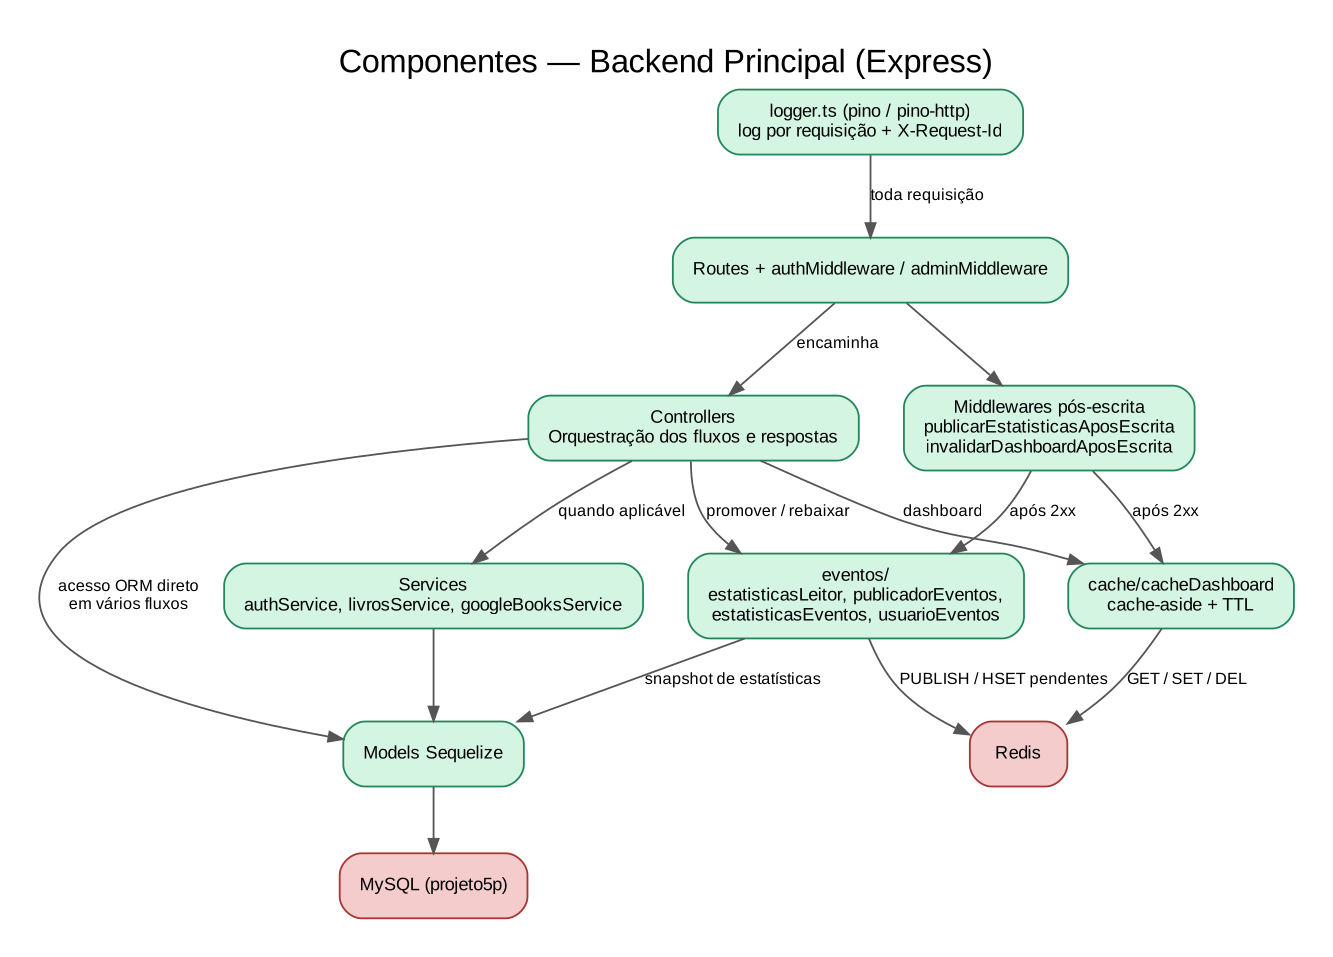
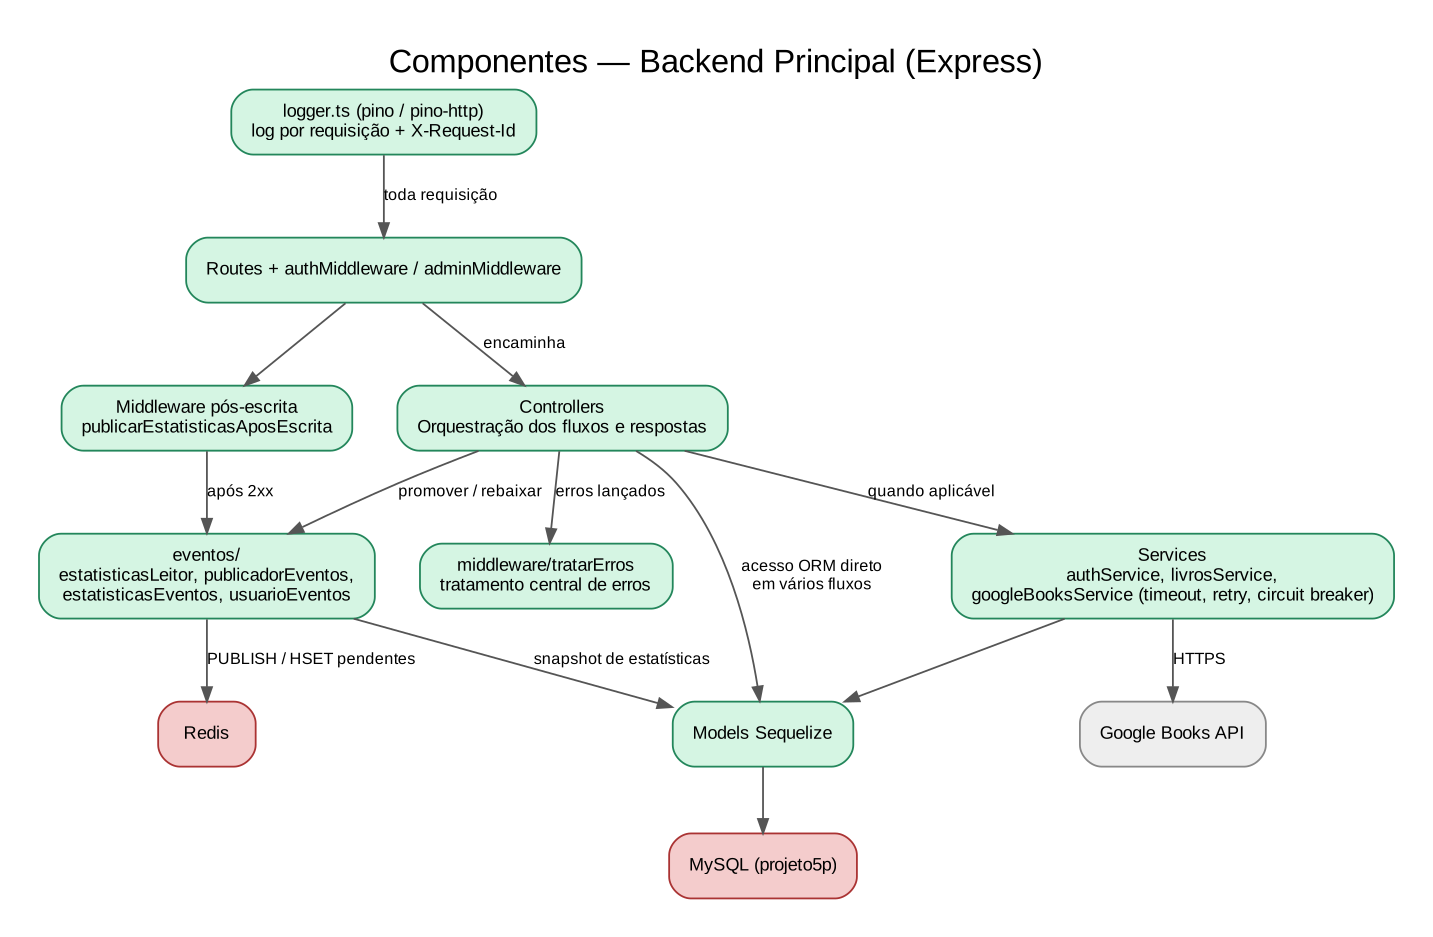
docs: organização final
Refs: GDL-80

diff --git a/docs/adr/ADR-003-redis-cache-e-mensageria.md b/docs/adr/ADR-003-redis-cache-e-mensageria.md
@@ -4,20 +4,20 @@
 - **Data:** 03/11/2026 — Jira GDL-23
 
 ## Contexto
-O catálogo de conquistas e a dashboard recebem consultas repetidas. A separação da Gamificação exige comunicar mudanças de leitura ao novo serviço sem chamada síncrona entre eles.
+O catálogo de conquistas recebe consultas repetidas. A separação da Gamificação exige comunicar mudanças de leitura ao novo serviço sem chamada síncrona entre eles.
 
 ## Decisão
 Usar um único Redis 7 para **cache-aside com TTL** e para **mensageria Pub/Sub**. Redis não é fonte da verdade: tudo no cache pode ser reconstruído do MySQL.
 
 ## Cache
-| | Catálogo de conquistas (NestJS) | Dashboard (Express) |
-|---|---|---|
-| Issue | GDL-10, GDL-11 | GDL-12 |
-| Chave | por usuário + versão do catálogo | `dashboard:usuario:<id>` |
-| TTL | `CACHE_TTL_SEGUNDOS` (padrão 300 s) | `CACHE_DASHBOARD_TTL` (padrão 300 s) |
-| Invalidação | admin altera o catálogo → todos; leitor ganha conquista ou estatísticas mudam → só ele | qualquer escrita 2xx do leitor em livros, leituras, anotações, sessões e metas |
-| Redis fora | consulta o banco, `X-Cache: SEM_CACHE`; operações limitadas a 300 ms | consulta o banco, `X-Cache: MISS`; log avisa uma vez |
-| Testes | `cache-catalogo.service.spec.ts` | `cacheDashboard.test.ts` |
+| | Catálogo de conquistas (NestJS) |
+|---|---|
+| Issue | GDL-10, GDL-11 |
+| Chave | por usuário + versão do catálogo |
+| TTL | `CACHE_TTL_SEGUNDOS` (padrão 300 s) |
+| Invalidação | admin altera o catálogo → todos; leitor ganha conquista ou estatísticas mudam → só ele |
+| Redis fora | consulta o banco, `X-Cache: SEM_CACHE`; operações limitadas a 300 ms |
+| Testes | `cache-catalogo.service.spec.ts` |
 
 Compose limita o Redis a 128 MB com `allkeys-lru`; sem volume persistente nem senha, só na rede interna.
 
@@ -25,6 +25,6 @@ Compose limita o Redis a 128 MB com `allkeys-lru`; sem volume persistente nem se
 Implementada conforme o [ADR-004](ADR-004-eventos-entre-servicos.md): canais `estatisticas.atualizadas` e `usuario.permissao_alterada`, publicados pelo Express (`redis`) e consumidos pelo NestJS (`@nestjs/microservices`, transporte Redis em app híbrido).
 
 ## Consequências
-- Cache pode ficar desatualizado até o TTL para dados que outra pessoa altera (ex.: totais gerais da dashboard).
+- O cache pode ficar desatualizado por até um TTL.
 - Pub/Sub entrega no máximo uma vez e não guarda mensagem para quem está desconectado; o ADR-004 descreve como isso foi compensado.
 - Um único Redis é ponto único de falha para cache e mensageria; os dois serviços continuam respondendo sem ele (sem cache e sem eventos).

diff --git a/docs/gestao/product-backlog.md b/docs/gestao/product-backlog.md
@@ -43,12 +43,12 @@ Com a mesma pessoa como PO, Scrum Master e desenvolvedora, há menos separação
 | Sprint 4 — Nest e Cache | 27/10 – 02/11 | Conquistas servidas pelo NestJS (banco próprio, JWT e módulo) com cache-aside e invalidação | GDL-10, 11, 66, 67, 68, 19, 20, 21–25 |
 | Sprint 5 — Eventos | 03/11 – 09/11 | Monólito publica eventos e o serviço consome; serviço no Compose e no Nginx; revogação de admin; CI/CD; modelo de domínio e OpenAPI | GDL-16, 17, 18, 27–30, 39, 40, 41, 57, 58, 60, 70, 71, 73, 74, 79 |
 | Sprint 6 — Migração | 09/11 – 20/11 | Código antigo removido; sistema resiliente com o serviço fora; teste do fluxo; qualidade, SLO, observabilidade | GDL-26, 31, 32, 33, 51, 54, 69, 72, 75, 76, 77 |
-| Sprint 7 — Finalização | 20/11 – 23/11 | Logger, tratamento central de erros, cache da dashboard, apresentação | GDL-34, GDL-12, GDL-35, GDL-80, GDL-32 (implementação) e GDL-42 |
+| Sprint 7 — Finalização | 20/11 – 23/11 | Logger, tratamento central de erros, apresentação | GDL-34, GDL-12, GDL-35, GDL-80, GDL-32 (implementação) e GDL-42 |
 
 Na Sprint 6 o time não fechou GDL-34, GDL-35, GDL-12 e GDL-42; eles foram levados para a Sprint 7 (replanejamento registrado no Jira). Na revisão final, o time encontrou o GDL-32 (Sprint 6) marcado como Feito sem código e implementou a resiliência na Sprint 7 (PR #51) — exemplo de inspeção e adaptação.
 
 ## Concluído na Sprint 7
-GDL-34 (logger, PR #47), GDL-35 (tratamento de erros, PR #50), GDL-80 (documentação, PR #49), GDL-12 (cache da dashboard, PR #48), GDL-32 (resiliência do Google Books, PR #51) e GDL-42 (apresentação final).
+GDL-34 (logger, PR #47), GDL-35 (tratamento de erros, PR #50), GDL-80 (documentação, PR #49), GDL-12 (PR #48), GDL-32 (resiliência do Google Books, PR #51) e GDL-42 (apresentação final).
 
 ## Cancelado
 GDL-61 (ConquistaService no Express): fechado como Feito com o título "[Cancelado]", porque foi substituído pela extração da Gamificação para o NestJS.

diff --git a/docs/arquitetura/quality-scenarios.md b/docs/arquitetura/quality-scenarios.md
@@ -5,9 +5,9 @@ Os cenários diferenciam comportamento implementado (com evidência) de metas pr
 | ID | Atributo | Estímulo → resposta esperada | Evidência / situação |
 |---|---|---|---|
 | QS-01 | Desempenho | Requisição HTTP responde dentro do orçamento | Log por requisição com duração (pino) e Nginx com `$request_time`; sem série de medições sob carga |
-| QS-02 | Desempenho | Consultas repetidas ao catálogo de conquistas e à dashboard usam cache | **Implementado:** cache-aside com TTL e `X-Cache: HIT/MISS` (catálogo: GDL-10/11; dashboard: GDL-12) |
+| QS-02 | Desempenho | Consultas repetidas ao catálogo de conquistas usam cache | **Implementado:** cache-aside com TTL e `X-Cache: HIT/MISS` (GDL-10/11) |
 | QS-03 | Disponibilidade | Conquistas Service fora do ar | **Implementado:** Nginx responde 503 JSON só para `/api/conquistas`; Express continua; eventos ficam no hash de pendentes e são processados quando o serviço volta (GDL-76) |
-| QS-04 | Resiliência | Redis indisponível | **Implementado:** catálogo e dashboard vão ao banco; publicação falha sem quebrar a requisição; Nest reassina sozinho; log avisa queda e volta uma vez |
+| QS-04 | Resiliência | Redis indisponível | **Implementado:** catálogo vai ao banco; publicação falha sem quebrar a requisição; Nest reassina sozinho; log avisa queda e volta uma vez |
 | QS-05 | Consistência | Evento repetido ou fora de ordem | **Implementado:** upsert condicional por `gerado_em` e PK composta na concessão; testes em `eventos.banco-spec.ts` |
 | QS-06 | Segurança | Admin rebaixado tenta usar token antigo | **Implementado:** evento `usuario.permissao_alterada` → 401; com Redis fora, rotas de admin respondem 503 (GDL-79) |
 | QS-07 | Recuperação | Container cai | `restart: always`; healthcheck no MySQL, Redis e conquistas-service (`/health`) |

diff --git a/README.md b/README.md
@@ -219,27 +219,3 @@ serviço e, quando vem de uma requisição, o id da requisição e o usuário lo
 |---|---|---|
 | `LOG_NIVEL` | `debug`, `info`, `warn`, `error` | `info` (nos testes, `silent`) |
 | `LOG_FORMATO` | `texto` (uma linha legível) ou `json` (um objeto por linha, para ferramentas de log) | `texto` |
-## 12) Cache da dashboard (GDL-12)
-
-`GET /api/dashboard` usa **cache-aside** no Redis, com uma chave por leitor (`dashboard:usuario:<id>`):
-
-1. procura a chave no Redis; se achar (**HIT**), devolve direto, sem consultar o MySQL;
-2. se não achar (**MISS**), monta a dashboard no banco, guarda no Redis com TTL e devolve.
-
-- **TTL**: `CACHE_DASHBOARD_TTL` em segundos (padrão `300`, 5 minutos).
-- **Invalidação**: qualquer escrita que deu certo em `/api/livros`, `/api/leituras` (ex.: iniciar uma leitura),
-  `/api/anotacoes`, `/api/sessoes` ou `/api/metas` apaga a chave do leitor; o próximo GET já vem do banco.
-- **Redis fora do ar**: a dashboard continua respondendo, só que sempre do banco. O log avisa uma vez quando o
-  Redis cai e outra quando volta.
-- A resposta traz o cabeçalho `X-Cache: HIT` ou `X-Cache: MISS`, e o log mostra cada caso:
-
-```
-[18:55:12.595] INFO: [backend:cache] MISS dashboard usuario=1
-[18:55:12.595] INFO: [backend] GET /api/dashboard 200 18ms {"reqId":"dcd8fdfe-...","usuario":1}
-[18:55:12.613] INFO: [backend:cache] HIT dashboard usuario=1
-[18:55:12.613] INFO: [backend] GET /api/dashboard 200 1ms {"reqId":"4ae1d85e-...","usuario":1}
-[18:55:12.669] INFO: [backend:cache] dashboard invalidada usuario=1 (POST /api/leituras/iniciar)
-```
-
-Os números totais de usuários e de livros do sistema podem ficar até um TTL atrasados quando *outra* pessoa
-cadastra algo, porque só a escrita do próprio leitor apaga a dashboard dele.

diff --git a/docs/README.md b/docs/README.md
@@ -15,11 +15,11 @@
 ## Estado do sistema
 | Componente | Estado |
 |---|---|
-| Backend Principal | Express 5, TypeScript, Sequelize, MySQL; catálogo, leituras, sessões, metas, anotações, lista de desejos, perfil, dashboard (com cache), autenticação e administração; publica eventos no Redis; Google Books com timeout, retry e circuit breaker |
+| Backend Principal | Express 5, TypeScript, Sequelize, MySQL; catálogo, leituras, sessões, metas, anotações, lista de desejos, perfil, autenticação e administração; publica eventos no Redis; Google Books com timeout, retry e circuit breaker |
 | Conquistas Service | NestJS, TypeORM; rotas do leitor (`/api/conquistas`, `/catalogo`, `/novas`) e do admin, DTOs, regras estruturadas, JWT com revogação, cache, consumo de eventos, migrações |
 | Nginx | Único ponto de entrada (HTTPS); `/api/conquistas` → NestJS, demais `/api/` → Express, `/` → frontend; 503 JSON se o NestJS cair |
 | MySQL | MySQL 8, schemas `projeto5p` e `gamificacao`, usuário separado para a gamificação |
-| Redis | Cache (catálogo e dashboard), Pub/Sub (`estatisticas.atualizadas`, `usuario.permissao_alterada`), eventos pendentes, revogação de tokens |
+| Redis | Cache (catálogo de conquistas), Pub/Sub (`estatisticas.atualizadas`, `usuario.permissao_alterada`), eventos pendentes, revogação de tokens |
 | Docker Compose | MySQL, Redis, backend, conquistas-service, frontend e Nginx, com healthchecks |
 | CI/CD | GitHub Actions: build e testes dos três projetos (NestJS com MySQL e Redis reais), build das imagens, publicação no GHCR por tag |
 | Logs e erros | pino nos dois serviços, uma linha por requisição, `X-Request-Id`; tratamento central de erros no Express (GDL-35) e filtro global no NestJS, com resposta `{ erro, statusCode }` |

diff --git a/docs/diagramas/c4-componentes-backend.md b/docs/diagramas/c4-componentes-backend.md
@@ -4,11 +4,10 @@
 flowchart TB
     logger["<b>logger.ts</b><br/>pino / pino-http<br/>log por requisição + X-Request-Id"]
     routes["<b>Routes</b><br/>authMiddleware / adminMiddleware"]
-    mw["<b>Middlewares pós-escrita</b><br/>publicarEstatisticasAposEscrita<br/>invalidarDashboardAposEscrita"]
+    mw["<b>Middlewares pós-escrita</b><br/>publicarEstatisticasAposEscrita"]
     controllers["<b>Controllers</b><br/>Orquestração dos fluxos e respostas"]
     services["<b>Services</b><br/>authService, livrosService,<br/>googleBooksService"]
     eventos["<b>eventos/</b><br/>estatisticasLeitor, publicadorEventos,<br/>estatisticasEventos, usuarioEventos"]
-    cache["<b>cache/cacheDashboard</b><br/>cache-aside + TTL"]
     models["<b>Models Sequelize</b>"]
     mysql[("MySQL · projeto5p")]
     redis[("Redis")]
@@ -18,18 +17,15 @@ flowchart TB
     routes -- encaminha --> controllers
     controllers -- "quando aplicável" --> services
     controllers -- "acesso ORM direto<br/>em vários fluxos" --> models
-    controllers -- dashboard --> cache
     controllers -- "promover / rebaixar" --> eventos
     mw -- "após 2xx" --> eventos
-    mw -- "após 2xx" --> cache
     services --> models
     eventos -- "snapshot de estatísticas" --> models
     models --> mysql
     eventos -- "PUBLISH / HSET pendentes" --> redis
-    cache -- "GET / SET / DEL" --> redis
 
     classDef comp fill:#d5f5e3,stroke:#23865b,color:#000
     classDef dados fill:#f4cccc,stroke:#aa3333,color:#000
-    class logger,routes,mw,controllers,services,eventos,cache,models comp
+    class logger,routes,mw,controllers,services,eventos,models comp
     class mysql,redis dados
 ```

diff --git a/docs/diagramas/c4-containers.md b/docs/diagramas/c4-containers.md
@@ -10,7 +10,7 @@ flowchart TB
     subgraph compose["Docker Compose — rede interna"]
         nginx["<b>Nginx 1.27</b><br/>Proxy reverso + HTTPS<br/>(único ponto de entrada externo)"]
         web["<b>Frontend Web</b><br/>React + TypeScript + Vite"]
-        express["<b>Backend Principal</b><br/>Express 5 + Sequelize<br/>Identidade, catálogo, leituras, sessões,<br/>anotações, metas, dashboard, admin"]
+        express["<b>Backend Principal</b><br/>Express 5 + Sequelize<br/>Identidade, catálogo, leituras, sessões,<br/>anotações, metas, admin"]
         nest["<b>Conquistas Service</b><br/>NestJS + TypeORM<br/>Catálogo, progresso, concessão<br/>e administração de conquistas"]
         redis[("<b>Redis 7</b><br/>Cache · Pub/Sub<br/>Eventos pendentes · Revogação de tokens")]
         mysql[("<b>MySQL 8</b><br/>schemas projeto5p + gamificacao")]
@@ -25,7 +25,7 @@ flowchart TB
     nginx -- "/api/conquistas*<br/>(503 JSON se fora do ar)" --> nest
     express -- "Sequelize · projeto5p" --> mysql
     nest -- "TypeORM · gamificacao" --> mysql
-    express -- "PUBLISH estatisticas.atualizadas<br/>PUBLISH usuario.permissao_alterada<br/>cache da dashboard" --> redis
+    express -- "PUBLISH estatisticas.atualizadas<br/>PUBLISH usuario.permissao_alterada" --> redis
     redis -- "SUBSCRIBE (Pub/Sub)" --> nest
     nest -- "cache do catálogo<br/>revogação de tokens" --> redis
     express -- "HTTPS/JSON<br/>(timeout, retry, circuit breaker)" --> google

diff --git a/docs/arquitetura/coesao-acoplamento.md b/docs/arquitetura/coesao-acoplamento.md
@@ -5,9 +5,9 @@ Esta análise aplica as aulas ao código atual. Não afirma que o sistema implem
 ## Evidências positivas
 - NestJS separa módulos, controllers, services, DTOs, entities, cache, auth, eventos e banco.
 - Regras de critério são funções puras com testes.
-- `CacheCatalogoService` (Nest) e `cacheDashboard.ts` (Express) encapsulam o acesso ao cache.
+- `CacheCatalogoService` (Nest) encapsula o acesso ao cache.
 - **Baixo acoplamento entre serviços:** Express e NestJS não se chamam por HTTP; falam só pelo contrato do evento. Um pode ficar fora do ar sem derrubar o outro.
-- Publicação e invalidação ficam em middlewares pós-escrita, sem alterar cada controller.
+- A publicação de eventos fica em um middleware pós-escrita, sem alterar cada controller.
 - `googleBooksService.ts` centraliza a chamada à API externa.
 
 ## Acoplamentos identificados
@@ -25,6 +25,6 @@ Esta análise aplica as aulas ao código atual. Não afirma que o sistema implem
 ## Padrões aplicados
 - MVC/Controllers + ORM no Express.
 - Módulos, providers e injeção de dependência no NestJS.
-- Cache-aside (catálogo de conquistas e dashboard).
+- Cache-aside (catálogo de conquistas).
 - Publish/Subscribe com Redis e snapshot cumulativo como evento.
 - Strangler fig: a Gamificação saiu do monólito em etapas, até a remoção do código antigo (GDL-75).

diff --git a/docs/gestao/versionamento.md b/docs/gestao/versionamento.md
@@ -7,7 +7,7 @@ O `CHANGELOG.md` segue Keep a Changelog e Versionamento Semântico. Cada versão
 | **1.0.0** | 19/10/2026 | Primeira versão estável: o MVP (histórias GDL-43 a GDL-50) |
 | **1.1.0** | 27/10/2026 | Serviço NestJS iniciado, schema `gamificacao`, critérios estruturados, Redis no Compose, testes e correções |
 | **1.2.0** | 09/11/2026 | JWT e módulo de conquistas no NestJS, cache do catálogo, Compose e Nginx com o serviço, CI/CD, eventos Redis Pub/Sub, revogação de admin, app com conquistas estruturadas |
-| **1.3.0** (próxima) | fim da Sprint 7 | `nome_genero`, remoção das conquistas do Express, `/api/conquistas/novas`, resiliência com o serviço fora, teste do fluxo de eventos, logger estruturado, cache da dashboard, tratamento central de erros, resiliência do Google Books (timeout, retry e circuit breaker) |
+| **1.3.0** (próxima) | fim da Sprint 7 | `nome_genero`, remoção das conquistas do Express, `/api/conquistas/novas`, resiliência com o serviço fora, teste do fluxo de eventos, logger estruturado, tratamento central de erros, resiliência do Google Books (timeout, retry e circuit breaker) |
 
 ## Fluxo
 `feature/GDL-XX-...` → PR para `dev` → `release/x.y.z` (CHANGELOG) → PR para `main` → tag `vx.y.z`.

diff --git a/docs/arquitetura/bounded-contexts.md b/docs/arquitetura/bounded-contexts.md
@@ -7,7 +7,7 @@
 **Responsabilidade:** livros, autores, editoras e gêneros. Integra Google Books. `googleBooksService.ts` normaliza URLs de imagem; o mapeamento ainda usa a estrutura externa `volumeInfo`, sem ACL completa.
 
 ## Acompanhamento de Leitura (Core)
-**Responsabilidade:** leituras por usuário, progresso, sessões, anotações, metas, avaliações e dashboard. É o **publicador** de `estatisticas.atualizadas`: depois de cada escrita bem-sucedida, monta o snapshot das estatísticas do leitor (`eventos/estatisticasLeitor.ts`). A dashboard usa cache-aside no Redis por leitor (GDL-12).
+**Responsabilidade:** leituras por usuário, progresso, sessões, anotações, metas e avaliações. É o **publicador** de `estatisticas.atualizadas`: depois de cada escrita bem-sucedida, monta o snapshot das estatísticas do leitor (`eventos/estatisticasLeitor.ts`).
 
 ## Gamificação
 **Responsabilidade:** catálogo de conquistas, critério, progresso e concessão. Fica inteiro no `conquistas-service` (NestJS), com schema próprio `gamificacao`. Entidades TypeORM: `Conquista`, `ConquistaDoUsuario`, `EstatisticasLeitorEntity`. Não consulta o banco do Express: recebe as estatísticas só pelo evento. O código antigo do Express foi removido (GDL-75).

diff --git a/docs/devops/deploy.md b/docs/devops/deploy.md
@@ -8,7 +8,7 @@ Jira GDL-17. Estratégia escolhida: **deploy simples por versão com rollback pa
 3. PR da release para `main`; depois do merge, criar a tag `vx.y.z` e a Release no GitHub.
 4. A tag dispara o job `deploy`, que publica as imagens versionadas no GHCR.
 5. No servidor: `git checkout vx.y.z` e `docker compose up -d --build` (ou usar as imagens `:vx.y.z`).
-6. Verificar: `docker compose ps` (MySQL, Redis e conquistas-service `healthy`; demais `running`), login no app, uma rota do Express (ex.: `/api/dashboard`) e `/api/conquistas/catalogo`. O `/health` do Nginx só indica que o proxy está no ar, não que os serviços estão saudáveis.
+6. Verificar: `docker compose ps` (MySQL, Redis e conquistas-service `healthy`; demais `running`), login no app, uma rota do Express (ex.: `/api/livros/listar`) e `/api/conquistas/catalogo`. O `/health` do Nginx só indica que o proxy está no ar, não que os serviços estão saudáveis.
 
 ## Rollback
 1. Identificar a última versão estável (tag anterior, ex.: `v1.1.0`).

diff --git a/docs/arquitetura/c4-componentes-backend.md b/docs/arquitetura/c4-componentes-backend.md
@@ -1,12 +1,11 @@
 # Componentes do Backend Principal
 
-Diagrama baseado na estrutura real do Express (`routes`, `controller`, `services`, `eventos`, `cache`, `models-auto` e `logger.ts`).
+Diagrama baseado na estrutura real do Express (`routes`, `controller`, `services`, `eventos`, `models-auto` e `logger.ts`).
 
 ![Componentes Backend](../diagramas/c4-componentes-backend.png)
 
 ## Separação de responsabilidades
 - **logger.ts:** log estruturado por requisição e `X-Request-Id` (GDL-34).
-- **Middlewares pós-escrita:** depois de uma escrita 2xx, publicam o evento de estatísticas e invalidam a dashboard do leitor.
+- **Middlewares pós-escrita:** depois de uma escrita 2xx, publicam o evento de estatísticas.
 - **eventos/:** monta o snapshot de estatísticas e publica no Redis; guarda pendentes quando ninguém assina.
-- **cache/:** cache-aside da dashboard.
 - Controllers, services e models: nem todos os fluxos usam camadas de forma rígida; alguns controllers acessam modelos Sequelize diretamente (GDL-37).
